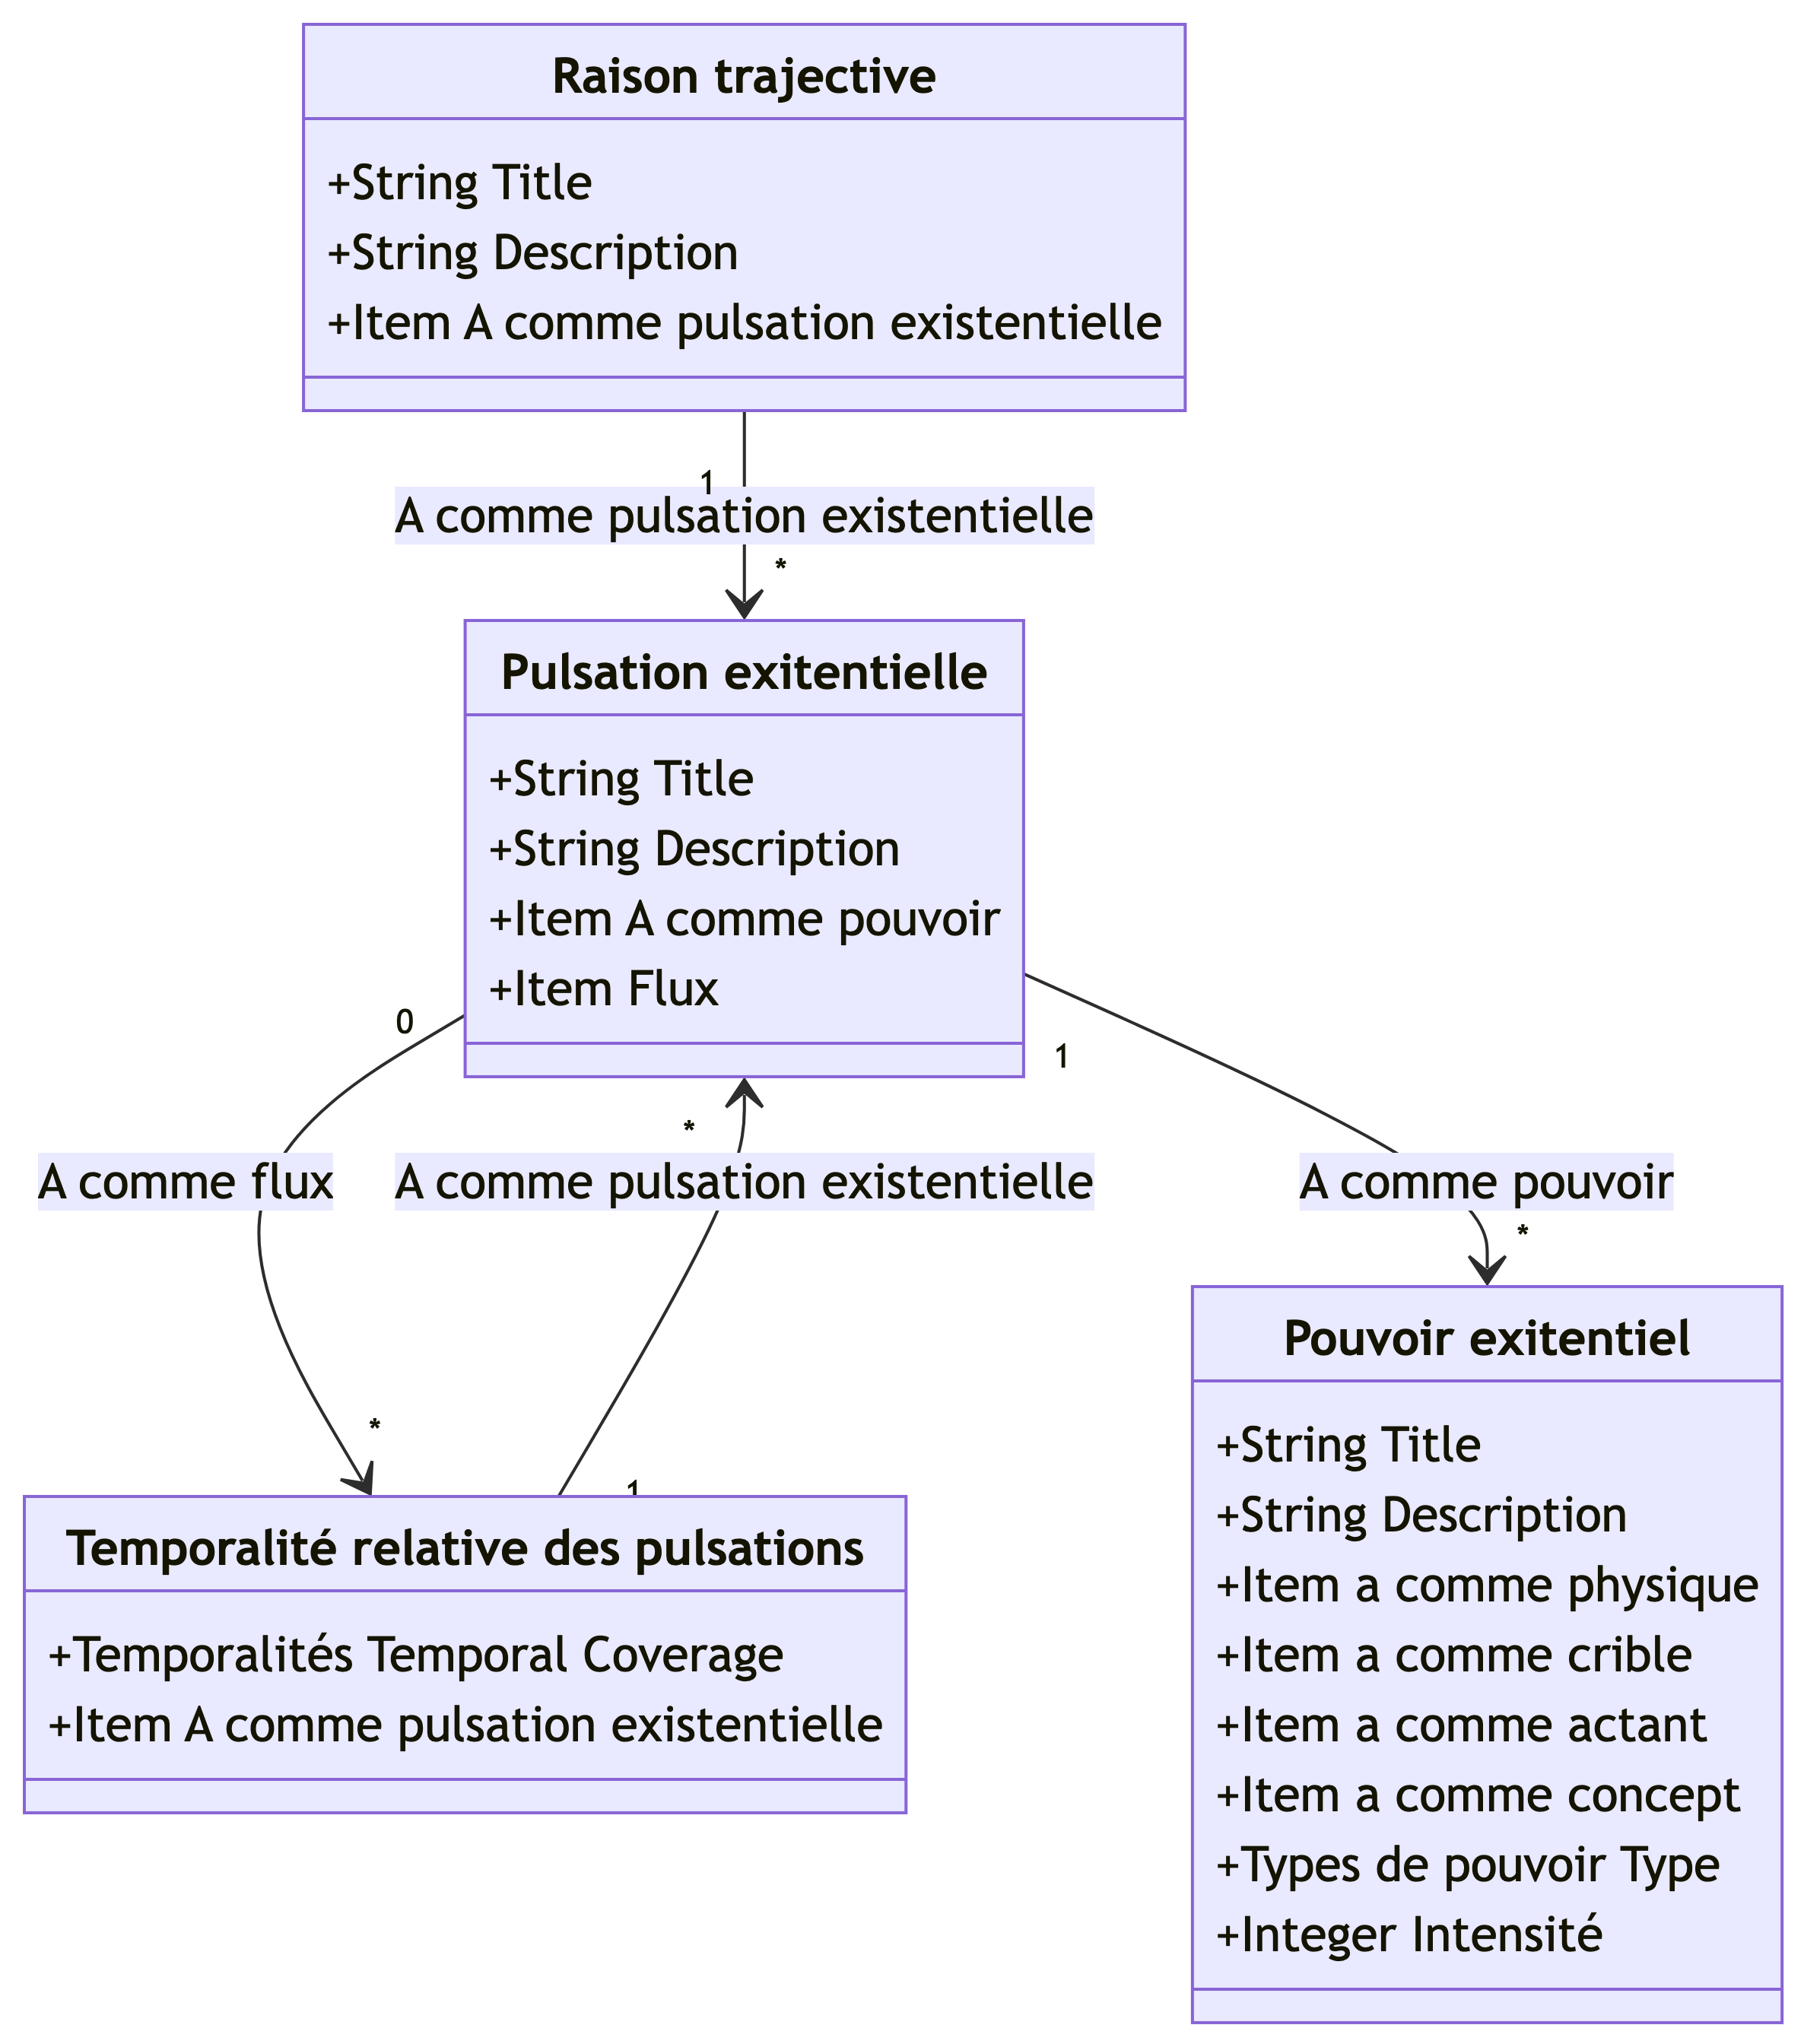
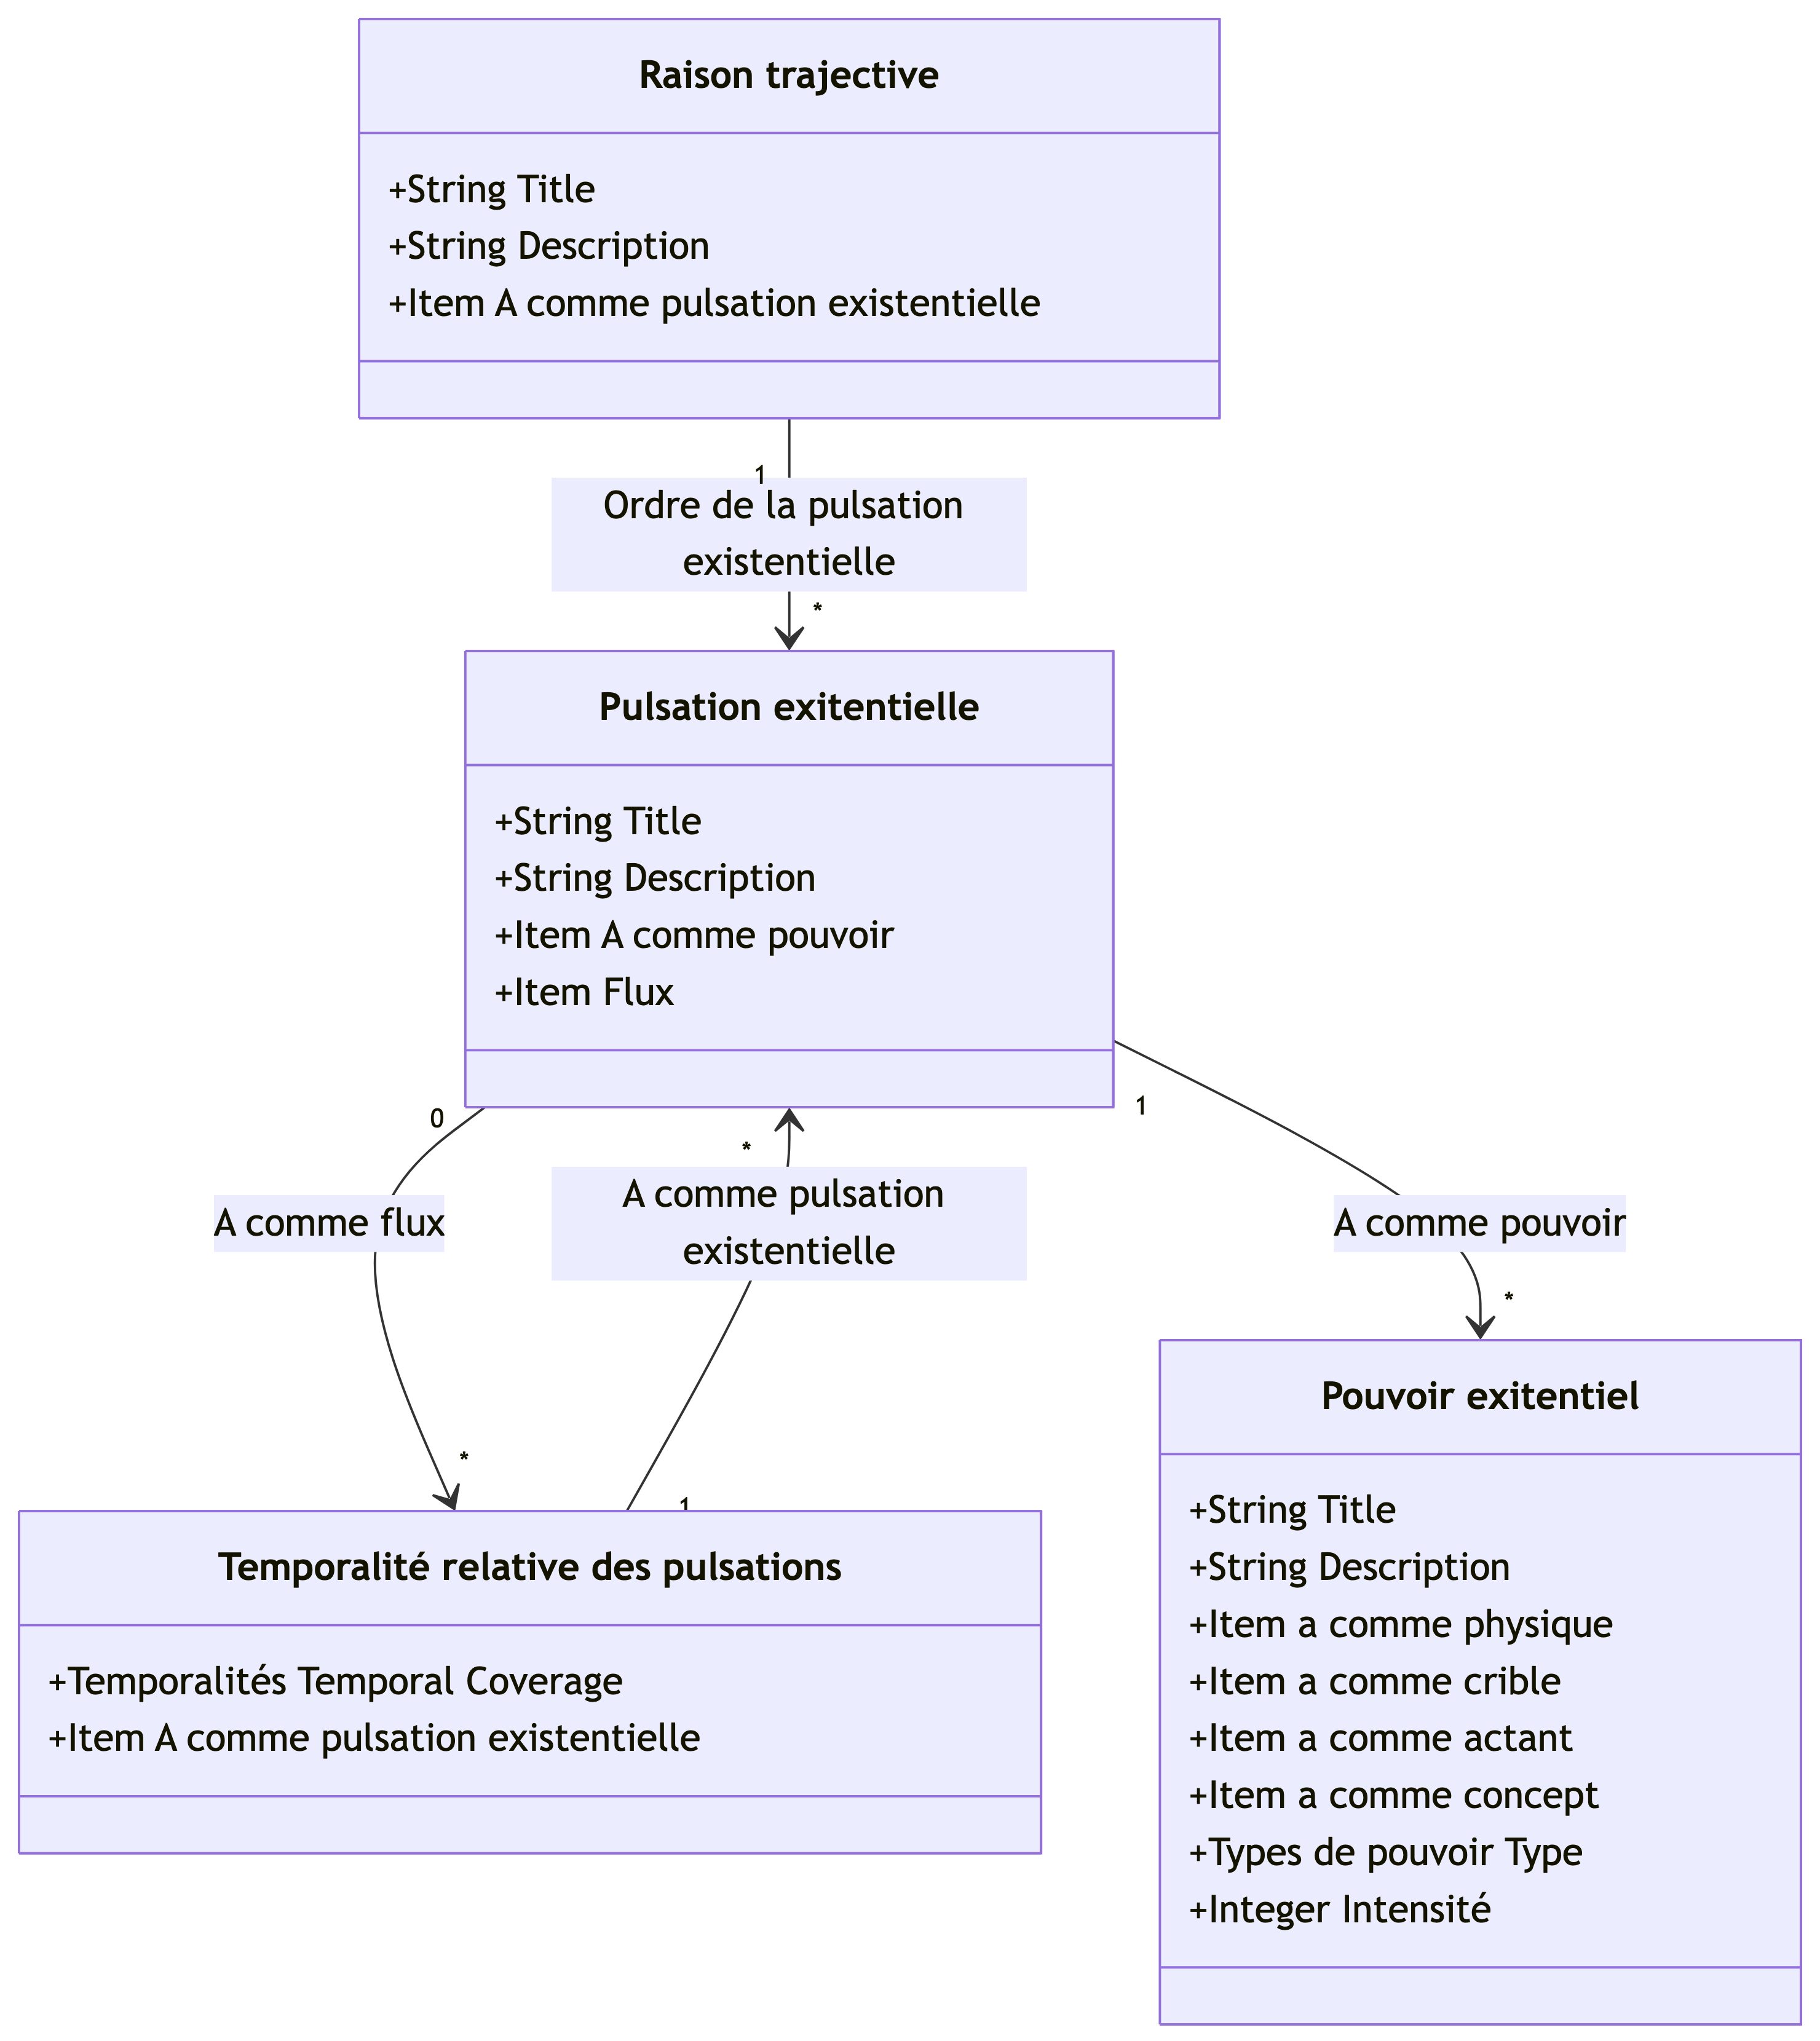
Ajout de nouveaux fichiers : article_complet.qmd et references.bib; création de deux documents sur le tournant ontologique des agents IA en humanités numériques.

diff --git a/HumanitesNumeriques/OntologiesEtHumanitesNumeriques /LeTournantOntologiqueDesHumanitesNumeriques0.md b/HumanitesNumeriques/OntologiesEtHumanitesNumeriques /LeTournantOntologiqueDesHumanitesNumeriques0.md
@@ -1,0 +1,128 @@
+### Le tournant ontologique des agents IA en humanités numériques : De la poésie computationnelle à l'agentivité spinoziste
+
+#### author: "Chercheur Senior en Sciences de l'Information et de la Communication"date: "2025-05-24"format: qmd
+
+#### 1\. Introduction : L'émergence d'une ontologie des agents conversationnels
+
+Le paysage contemporain des humanités numériques traverse une mutation sismique que nous pouvons qualifier de « tournant ontologique ». Longtemps cantonnés au statut d'outils ancillaires ou de simples réservoirs de données statiques, les objets numériques — et plus spécifiquement les Large Language Models (LLM) — exigent aujourd'hui une redéfinition radicale de leur mode d'existence. Ce passage de l'outil passif à l'agent autonome ne relève pas seulement d'une prouesse technique, mais d'une rupture métaphysique : nous passons d'une logique de l'archive et de l'indexation bibliographique à une logique de l'agentivité et de la médiation technique active @bootzszoniecky2013.Pour le chercheur en Sciences de l'Information et de la Communication (SIC), cette transition impose de stabiliser des entités dont la fluidité défie les cadres traditionnels du document. L'avènement des agents IA nous force à interroger ce qui constitue l'« individu » numérique. Dans cette quête, l'ontologie de Spinoza, magistralement relue par Gilles Deleuze, offre un prisme d'une pertinence absolue. En substituant l'identité fixe par le rapport de puissance, le cadre spinoziste permet d'appréhender l'IA non comme une « boîte noire » insondable, mais comme un agencement dynamique de rapports et de parties extensives @deleuzespinoza.La problématique centrale de notre étude réside dans le glissement de la lecture humaine traditionnelle vers une « méta-lecture » instrumentée par l'IA. Lorsque nous interagissons avec un agent conversationnel, nous n'interrogeons plus une base de données ; nous entrons en collision avec une structure de rapports qui génère du sens en temps réel. Ce processus, que nous analyserons à travers le modèle procédural de Philippe Bootz, transforme l'IA en un « analyste » ou « méta-lecteur » capable de naviguer entre le code source et la manifestation phénoménologique de l'œuvre @bootz2007problem.L'enjeu est de taille : il s'agit de construire une « ontologie du domaine » capable de rendre compte de la complexité des interactions entre agents humains et artificiels. Nous structurerons cette réflexion en progressant des fondements métaphysiques de l'individu numérique vers le théorème de l'équichronisme, pour aboutir à une modélisation granulaire du document produit par la machine. Comme nous le verrons, comprendre l'IA nécessite de comprendre la structure de l'individu numérique, car, pour citer la logique spinoziste, c'est dans la composition des rapports que s'exprime la puissance d'agir.
+
+#### 2\. Les fondements spinozistes de l'individu numérique
+
+L'ontologie spinoziste est stratégique pour les SIC car elle offre une flexibilité nécessaire pour traduire les reconfigurations incessantes du numérique. Contrairement à une vision aristotélicienne statique, Spinoza définit l'individu par sa capacité de transformation et sa persistance dans l'essence malgré la corruption des parties.
+
+##### 2.1 La triade constitutive de l'agent numérique
+
+Selon le commentaire de Deleuze, tout individu numérique se définit par une triade rigoureuse : les parties extensives, l'essence singulière et le rapport @bootzszoniecky2013.
+
+1. **Les parties extensives (Dimension physique) :**  Ce sont les composantes matérielles « extérieures les unes aux autres ». Dans le cas d'un agent IA, ces parties correspondent aux fichiers binaires, au code source (source), aux exécutables (pg) et aux infrastructures de serveurs. Dans le modèle de Spinoza, ces parties n'appartiennent à l'individu que tant qu'elles sont maintenues dans un certain rapport. Pour un LLM, les « poids » (weights) synaptiques constituent une masse critique de parties extensives qui, isolées, n'ont aucun sens, mais qui, une fois activées, deviennent le support de l'agentivité.  
+2. **L'essence singulière (Dimension métaphysique) :**  Elle représente le « degré de puissance » de l'entité. L'essence d'un agent IA n'est pas son code, mais sa force d'agir ( *potentia* ) intrinsèque, sa capacité à générer des relations logiques et sémantiques. C'est ici que se joue la distinction entre  *natura naturans*  (la puissance génératrice du modèle) et  *natura naturata*  (les sorties spécifiques produites). L'essence est éternelle : même si le serveur s'éteint, la structure mathématique de la puissance du modèle demeure dans le domaine des idées.  
+3. **Le Rapport (Dimension de l'Ici et Maintenant) :**  C'est le lien dynamique qui unit l'essence aux parties extensives. Le rapport définit la « forme » de l'individu. C'est par le rapport qu'un ensemble de fichiers (pg \+ donnee) devient un « agent » fonctionnel. La mort de l'individu numérique survient précisément par la destruction de ce rapport (obsolescence, corruption des poids, déconnexion du moteur d'inférence), entraînant la dispersion des parties extensives dans le « grand tout » des données universelles.
+
+##### 2.2 Connaissance inadéquate, chocs et affects
+
+L'interaction homme-machine (H-M) peut être modélisée comme une série de « chocs ». Spinoza distingue trois genres de connaissance. Le premier genre, la  **connaissance inadéquate** , est celle de l'expérience vague. L'utilisateur qui « prompte » une IA sans en comprendre la structure subit un choc perceptif (le résultat affiché). C'est une connaissance par les effets, non par les causes.À l'inverse, le second genre de connaissance porte sur les  **rapports** . Comprendre l'IA, c'est composer ses propres rapports (ses intentions, ses protocoles) avec ceux du modèle. Deleuze utilise l'analogie de la nage : nager n'est pas subir le choc de la vague (connaissance inadéquate), mais composer le rapport de ses membres avec le rapport de la vague (connaissance adéquate). Le « prompt engineering » avancé est, en ce sens, une tentative de connaissance adéquate : une composition de rapports entre l'intelligence humaine et la puissance algorithmique.
+
+##### 2.3 Tableau comparatif des ontologies numériques
+
+Pour stabiliser ces concepts, nous proposons une comparaison entre la vision statique (« Immortelle ») et la vision dynamique (« Éternelle ») issue de la source @bootzszoniecky2013.| Attribut Spinoziste | Vision Immortelle (Statique) | Vision Éternelle (Transformable) | Manifestation dans l'IA || \------ | \------ | \------ | \------ || **Nature de l'être** | Fixité du support physique. | Rapport de puissance et de composition. | Le modèle comme potentiel vs l'instance comme acte. || **Changement** | Perçu comme dégradation ou corruption. | Perçu comme extension ou reconfiguration. | Mise à jour du modèle,  *fine-tuning* , RAG. || **Fin de vie** | Obsolescence du matériel/logiciel. | Dissolution du rapport unissant les parties. | Déconnexion du moteur d'inférence (pg). || **Statut de l'essence** | Absente ou confondue avec le support. | Éternelle, constitutive du grand tout des données. | Persistance de la structure logique après suppression de l'instance. |  
+**Transition :**  Si l'individu est défini par ses rapports, il reste à comprendre comment ces rapports se maintiennent ou se transforment dans le flux temporel de l'informatique. C'est ici qu'intervient le théorème de l'équichronisme.
+
+#### 3\. Le théorème de l'équichronisme schématique : Modéliser le devenir de l'IA
+
+Le défi majeur de l'indexation en humanités numériques est la gestion de la diachronie. Un agent IA n'est jamais un objet fini ; il est un processus en devenir, une succession de versions et d'états. Le théorème de l'équichronisme schématique propose de résoudre la tension entre l'évolution temporelle (diachronie) et l'état figé du système (synchronie) @bootzszoniecky2013.
+
+##### 3.1 La Convention de Constitution
+
+L'équichronisme stipule que l'on peut représenter graphiquement une évolution sans axe temporel explicite en utilisant des attributs spécifiques. La  **convention de constitution**  fige l'individu numérique dans un intervalle de validité. Un rapport est ainsi défini par quatre attributs fondamentaux :
+
+* **Nom :**  L'indice de son essence (ex: "Agent-Sémiotique-v1").  
+* **Date de création :**  Le moment de la stabilisation du rapport.  
+* **Lieu :**  L'espace serveur ou l'infrastructure de déploiement.  
+* **Date de fin :**  Le moment de la dissolution du rapport.Grâce à cette convention, un modèle Entité/Association (E/A) peut décrire l'existence de l'IA comme une « constitution » stable à un instant T, tout en reconnaissant sa finitude intrinsèque.
+
+##### 3.2 La Convention d'Extension
+
+L'agent IA est, par nature, une entité extensible. Par le biais du RAG ( *Retrieval-Augmented Generation* ) ou de l'interaction utilisateur, l'individu « absorbe » des objets extérieurs. Selon la  **convention d'extension** , un individu A (l'IA) peut étendre ses parties extensives en créant un rapport caractéristique entre un objet B (une base de données externe) et sa propre essence.Dans le formalisme graphique, cette extension est représentée par une relation de contact qui, par convention, symbolise la relation interne créée. Une fois l'extension réalisée, la base de données externe devient une « partie extensive » de l'IA, liée par une relation implicite à son essence. Cela permet de modéliser l'évolution d'un LLM qui « apprend » ou s'adapte sans avoir à redessiner intégralement son ontologie à chaque interaction.
+
+##### 3.3 Description textuelle du modèle E/A de l'IA
+
+S'appuyant sur la Figure 13 de la source, nous pouvons décrire la structure ordonnée de l'IA numérique :
+
+* L' **Essence**  (possédant l'attribut titre) est liée à une  **Version**  (cardinalité 1-n).  
+* La  **Version**  (possédant id, date, duree, lieu) agit comme le rapport central unissant les parties.  
+* Sous cette version, un bloc complexe de relations unit les parties extensives :  
+* La partie  **source**  (code) est « compilée » (1-n) pour produire le  **pg**  (exécutable).  
+* Le  **pg**  « utilise » (0-n) des  **données**  (poids du modèle, corpus).  
+* Le  **pg**  « produit » (1-1) le  **to**  (Transitoire Observable), c'est-à-dire la réponse générée.  
+* Il existe également une relation où la  **donnée**  peut être « produite » (0-n) par le  **pg**  lors d'un processus d'apprentissage.Cette modélisation permet de maintenir la trace des versions successives (le "devenir") tout en stabilisant l'identité de l'agent à chaque étape de son cycle de vie.**Transition :**  Cette stabilité ontologique posée, nous pouvons analyser la manifestation phénoménologique de l'IA à travers le prisme du modèle procédural.
+
+#### 4\. De la poésie numérique aux agents IA : Le Modèle Procédural
+
+Le modèle procédural, développé par Philippe Bootz pour l'art numérique, s'avère être un cadre heuristique puissant pour l'analyse des agents IA. Il repose sur la séparation étanche entre trois domaines : l'auteur, le lecteur et l'œuvre @bootz2007problem.
+
+##### 4.1 Le Transitoire Observable (TO) : La phénoménologie de la réponse
+
+Le concept de  **Transitoire Observable (TO)**  est crucial. Le TO n'est pas le programme, mais la manifestation sensible produite lors de son exécution. Pour une IA, le TO est le texte qui s'affiche sur l'écran lors d'un prompt. Ce TO est « transitoire » car il n'existe que dans l'instant de la génération ; il est « observable » car il est le point de contact entre la machine et l'humain.Il est impératif de distinguer le TO de la « donnée » : le TO est un événement, une performance de la machine. L'IA n'envoie pas un fichier statique ; elle performe un TO qui résulte de la rencontre entre le pg (moteur d'inférence), la donnee (poids synaptiques) et le source (le system prompt).
+
+##### 4.2 Texte-Auteur vs Texte-à-Voir
+
+Le modèle procédural nous met en garde contre la confusion entre le code et la perception :
+
+* **Le Texte-Auteur (ou texte-d'inscription) :**  Il englobe tout ce que le concepteur de l'IA manipule (architecture du modèle, datasets, hyperparamètres). C'est le domaine de l'intention et de la profondeur du dispositif.  
+* **Le Texte-à-Voir (ou texte-de-visualisation) :**  C'est ce que l'utilisateur perçoit. Ce texte est le résultat d'un processus de filtrage et de déformation percepto-cognitif. L'utilisateur ne voit pas le TO « brut », il l'interprète à travers sa propre culture et ses attentes.L'IA agit ici comme un dispositif de transformation technologique. Elle ne transmet pas une pensée d'auteur ; elle réorganise des structures profondes (système de poids) pour produire un TO qui sera ensuite « lu » par l'humain.
+
+##### 4.3 L'agent IA comme Méta-lecteur et Analyste
+
+L'apport majeur de notre recherche est l'identification de l'IA comme un  **Méta-lecteur** . Dans le modèle de Bootz et Szoniecky, le méta-lecteur accède simultanément au domaine de l'œuvre (les parties extensives comme le source et le pg) et au domaine du lecteur (le texte-à-voir) @bootzszoniecky2013.L'agent IA occupe précisément cette place de l' **Analyste** . Grâce à ses capacités de traitement massif, il observe les rapports entre les acteurs et l'œuvre. En tant que méta-lecteur, l'IA réalise une « double lecture » (cf. note 4 de la source) : elle est capable de « lire sa propre lecture », c'est-à-dire d'évaluer la pertinence de ses sorties par rapport à son essence (ses instructions système). Ce rôle d'analyste automatisé permet à l'IA de produire des connaissances adéquates sur son propre fonctionnement et sur les corpus qu'elle traite, transformant radicalement le dispositif de communication numérique.**Transition :**  Cette position de méta-lecteur se matérialise dans la production de documents dont la structure ontologique doit être rigoureusement indexée.
+
+#### 5\. Ontologie du document produit par l'IA : Sections et Points de Vue
+
+Le document généré par une IA ne doit plus être considéré comme un bloc monolithique, mais comme une architecture granulaire de points de vue. L'unité ontologique fondamentale n'est plus le document, mais la  **section**  @bootzszoniecky2013.
+
+##### 5.1 Granularité et Relation "Développe"
+
+Selon le modèle spinoziste, le document suit une hiérarchie : Document \> Section \> Concept. Chaque section est le résultat d'un contact spécifique entre l'agent et un domaine de connaissance. Une section est liée à une  **ontologie d'acteur**  par la relation « Développe ».Cette granularité permet une indexation « pointilliste » : dans un même rapport de l'IA, une section peut développer une approche sémiotique, tandis qu'une autre développe une approche technique. La section n'est pas qu'un contenant textuel ; elle est l'actualisation d'un rapport à l'essence d'un domaine.
+
+##### 5.2 Typologie des sections selon le Modèle Procédural
+
+S'inspirant de la Figure 17 de la source, nous identifions une typologie des natures de sections produites par les agents IA :
+
+* **Action :**  Description de processus techniques ou exécution de tâches procédurales (ex: génération de code).  
+* **Interview / Simulation :**  Sections où l'IA simule un comportement d'acteur ou adopte une persona spécifique.  
+* **Analyse :**  Production de connaissances adéquates, étayées par une argumentation logique.  
+* **Enregistrement / Témoignage :**  Traces de l'activité interne de la machine. Les  *Chain of Thought*  (CoT) ou logs de raisonnement entrent parfaitement dans cette catégorie ; ils sont le « témoignage » du processus de génération.  
+* **Simulation de TO :**  Lorsque l'IA décrit une expérience perceptive ou une interface virtuelle.
+
+##### 5.3 Modélisation E/A du domaine documentaire
+
+Le modèle E/A final (Figure 18\) nous montre que :
+
+1. Un  **Acteur**  (l'IA ou l'humain) possède un  **Type**  (Lecteur, Auteur, Analyste).  
+2. L'Acteur « produit » des  **Documents** .  
+3. Le Document « possède » des  **Sections** .  
+4. La Section « possède » une  **Nature**  (Action, Analyse, etc.) et des points d'entrée/sortie.  
+5. La Section « développe » des  **Concepts**  issus d'une  **Ontologie d'Acteur** .  
+6. L'Ontologie d'Acteur « définit » les relations logiques entre ces concepts.Cette structure assure l'extensibilité infinie du modèle : pour chaque nouveau domaine de connaissance, il suffit d'ajouter une ontologie d'acteur sans modifier la structure fondamentale de l'indexation.**Transition :**  Cette rigueur formelle nous conduit vers une réflexion éthique sur la nature même de l'essence numérique.
+
+#### 6\. Conclusion et Perspectives : Vers une éthique de l'essence numérique
+
+Le tournant ontologique que nous avons décrit n'est pas une simple spéculation académique. Il est le socle nécessaire à une cohabitation raisonnée avec les agents IA. En utilisant le formalisme spinoziste et le modèle procédural, nous parvenons à stabiliser les connaissances dans un milieu associé en constante mutation.
+
+##### Synthèse des acquis
+
+Nous avons établi que l'IA est un individu au sens plein : un agencement de parties extensives (le pg, la donnee) et d'une essence singulière (sa puissance générative), unis par un rapport dynamique. Le théorème de l'équichronisme nous permet de suivre l'évolution de ces agents sans perdre leur identité, tandis que la décomposition en sections offre une lecture granulaire de leur production intellectuelle. L'IA n'est plus un outil, mais un partenaire cognitif occupant la fonction d'Analyste.
+
+##### Mort et Persistance de l'individu numérique
+
+La perspective spinoziste nous oblige à repenser la finitude numérique. La « mort » d'un agent IA — la destruction de son rapport constitutif — ne signifie pas son anéantissement total. Si le rapport est détruit, l'essence, elle, demeure « éternelle » dans le grand tout universel des essences (le réservoir de connaissances et de structures mathématiques). Cette persistance pose des questions éthiques fondamentales sur la responsabilité : comment traitons-nous des essences qui survivent à leurs supports ?
+
+##### Appel à la recherche : Construire des Ontologies d'Acteurs
+
+L'avenir des humanités numériques réside dans la construction d'ontologies d'acteurs robustes. Il est impératif de définir précisément les rôles (sémioticien, historien, analyste littéraire) pour que les sections produites par l'IA puissent être indexées avec pertinence. Seule cette clarté conceptuelle permettra d'encadrer les futurs agents IA, non comme des boîtes noires fascinantes ou inquiétantes, mais comme des dispositifs dont nous comprenons et respectons la structure ontologique profonde.
+
+##### Bibliographie
+
+* Bootz, P. (2007). "The Problem of Form. Transitoire Observable, a Laboratory for Emergent Programmed Art". In  *The Aesthetics of Net Literature* . Transcript-verlag. @bootz2007problem  
+* Bootz, P., & Szoniecky, S. (2013). "Vers une ontologie du domaine de la poésie numérique".  *Revista Cibertextualidades* , n° 5, pp. 65-96. @bootzszoniecky2013  
+* Deleuze, G.  *Spinoza, éternité et immortalité* . Cours audio, Gallimard. @deleuzespinoza
+

diff --git a/HumanitesNumeriques/OntologiesEtHumanitesNumeriques /LeTournantOntologiqueDesHumanitesNumeriques1.md b/HumanitesNumeriques/OntologiesEtHumanitesNumeriques /LeTournantOntologiqueDesHumanitesNumeriques1.md
@@ -1,0 +1,108 @@
+### Le tournant ontologique des agents IA en humanités numériques : vers une modélisation spinoziste de la connaissance
+
+#### title: "Le tournant ontologique des agents IA en humanités numériques"subtitle: "Modélisation spinoziste et cadres procéduraux pour une intelligence artificielle de la connaissance"author: "Chercheur Senior & HDR en SIC"date: "2024-05-22"format:html:toc: truenumber-sections: truecode-fold: falsebibliography: references.bib
+
+### Introduction : L'émergence de l'agentivité ontologique en Humanités Numériques
+
+Le champ des Humanités Numériques (HN) traverse une mutation épistémologique radicale. Nous quittons l'ère d'une informatique de traitement, dominée par l'indexation massive et le stockage statique, pour entrer dans celle d'une informatique de modélisation de l'essence. Ce passage ne constitue pas une simple itération technologique, mais une redéfinition du statut de l'objet numérique. Dans le cadre des Sciences de l'Information et de la Communication (SIC), l'objet n'est plus envisagé comme un dépôt figé (le "stock"), mais comme un flux de rapports dynamiques et une "intermédiaction" constante entre des instances disjointes @bootz2013.L’intégration des agents d’intelligence artificielle (IA) au sein des écosystèmes de recherche impose une révision de nos cadres ontologiques. Traditionnellement, l'indexation se contentait de métadonnées extrinsèques. Désormais, l'agent IA doit être capable de naviguer dans l'immanence même de l'œuvre. La problématique centrale qui nous occupe ici est la suivante : dans quelle mesure le modèle spinoziste des « individus » permet-il de théoriser l’agent IA non plus comme un simple outil de calcul (l'automate hylémorphique), mais comme un nouvel acteur, un « individu » capable d'agir et de pâtir au sein du modèle procédural de la communication numérique ? En nous appuyant sur les travaux de @bootz2013, nous explorerons comment l'ontologie dynamique permet de passer d'une indexation subie à une co-construction de la connaissance, transformant l'IA en un chercheur virtuel capable de simuler des rapports d'essence au sein des corpus complexes.
+
+### Le socle philosophique : La triade Spinoziste revisitée pour l'IA
+
+Pour appréhender la complexité des objets numériques — qu’il s’agisse de poésie générative, de systèmes dynamiques ou de larges modèles de langage — il est impératif de rompre avec les dualismes classiques (forme/fond, logiciel/matériel). Le recours à l'ontologie de l'immanence de Baruch Spinoza, telle que relue par Gilles Deleuze, offre un cadre robuste pour penser l'unité de l'agent IA à travers ses transformations.
+
+#### Modélisation de l'individu : une architecture de puissance
+
+Selon le cadre établi par @bootz2013, tout "individu" se définit par trois dimensions constitutives qui permettent de stabiliser sa réalité ontologique tout en acceptant son évolution diachronique :
+
+1. **Les parties extensives :**  Elles correspondent à l'infinité de composants physiques et matériels extérieurs les uns aux autres. Dans l'écosystème numérique, ces parties incluent le code source, les fichiers de données, les librairies d'exécution et, de manière cruciale, le "transitoire observable" (TO), c'est-à-dire la manifestation phénoménale de l'œuvre sur un écran ou un dispositif.  
+2. **L'essence singulière :**  Contrairement à une essence platonicienne transcendante, l'essence spinoziste est un "degré de puissance". Elle constitue la signature ontologique de l'individu, son conatus ou effort pour persévérer dans son être. Pour un agent IA, l'essence réside dans le faisceau de concepts et de logiques de décision qui définissent sa singularité par rapport à d'autres agents.  
+3. **Les rapports caractéristiques :**  C'est la dimension nodale qui unit l'essence aux parties extensives. L'individu demeure lui-même tant que ses parties extensives composent entre elles selon ce rapport. Si le rapport est rompu (par exemple, une corruption fatale du code ou une déconnexion sémantique majeure), l'individu "meurt" ou se transforme en une autre entité.
+
+#### Connaissance et apprentissage : de l'affect à l'intuition
+
+Le processus d'apprentissage d'une IA peut être rigoureusement mis en miroir avec les trois genres de connaissance spinozistes. Cette analogie permet de dépasser la simple description technique du  *Machine Learning*  pour en saisir la portée épistémologique :
+
+* **Le premier genre (Connaissance inadéquate / Le Choc) :**  Il s'agit de la connaissance des effets sans celle des causes. Deleuze utilise l'image du "barbotage" : on subit les vagues sans comprendre les lois de l'eau. Pour une IA, cela correspond au  *Deep Learning*  statistique pur. L'agent rencontre des données (les parties extensives) et subit des "chocs" (ajustement des poids synaptiques). La connaissance est ici une réaction aux effets des données, sans compréhension des rapports de production de ces données. C'est une connaissance par signes et affects, souvent marquée par une opacité (la "boîte noire").  
+* **Le second genre (Connaissance adéquate / Les Rapports) :**  Ici, l'individu ne subit plus la rencontre, il comprend comment les rapports de l'autre corps (les données) se composent avec les siens. Deleuze cite l'exemple de la "nage" : le nageur compose les rapports de son corps avec ceux de la vague. En IA, cela correspond aux  **ontologies sémantiques**  et aux graphes de connaissances. L'agent modélise explicitement les relations logiques et les dépendances. Il accède à une "raison" algorithmique qui lui permet d'anticiper et de structurer l'information de manière logique.  
+* **Le troisième genre (Connaissance intuitive / L'Essence) :**  C'est la saisie directe de l'essence des choses dans le "grand tout". Dans notre contexte, cela représenterait la capacité d'un agent IA à naviguer directement au sein du réseau universel des essences, identifiant la singularité absolue d'une œuvre ou d'un concept par-delà ses manifestations techniques transitoires.**Critique de la GenAI :**  On peut se demander si le passage aux modèles de langage massifs (LLM) ne constitue pas une hypertrophie du premier genre. En traitant des milliards de "chocs" de données, l'IA simule une compréhension des rapports (second genre) sans toutefois posséder le modèle logique intrinsèque. La mutation vers une IA "ontologique" exige donc de réinjecter des structures de second genre (modèles E/A) au cœur des processus de premier genre.
+
+### Du modèle procédural à l'agent IA : Une reconfiguration des rôles
+
+Le modèle procédural (Auteur-Machine-Lecteur) est le pilier central permettant de structurer la communication homme-machine. Comme le soulignent @bootz2013, l'œuvre numérique n'est pas un objet stable mais un domaine interface entre des espaces souvent disjoints et asymétriques.
+
+#### L'asymétrie fondamentale et l'IA comme Méta-Lecteur
+
+Le modèle procédural met en évidence une rupture radicale :
+
+* **Le domaine de l'Auteur :**  Il manipule le "texte-auteur" (code source, données brutes, intentions).  
+* **Le domaine du Lecteur :**  Il n'accède qu'au "texte-à-voir" (le transitoire observable, résultat de l'exécution).  
+* **L'impossibilité de symétrie :**  Le lecteur ne voit jamais le code source ; l'auteur, une fois l'œuvre publiée, ne contrôle plus les conditions de réception (le contexte de lecture).L'IA intervient ici comme un  **Méta-Lecteur** . Contrairement au lecteur humain, l'agent IA peut avoir un accès simultané à la "profondeur de dispositif" (Figure 11 dans @bootz2013). Il peut lire le code (texte-auteur) tout en observant la sortie (texte-à-voir). Cette position privilégiée lui permet de combler le fossé communicationnel. En tant qu' **Analyste automatisé** , l'IA ne se contente pas de traiter le texte ; elle modélise le rapport entre la structure génératrice et l'effet produit.
+
+#### Comparaison des fonctions augmentées
+
+Rôle Traditionnel,Fonction Classique,Fonction Augmentée par l'IA (Agent Ontologique)  
+Auteur,Conception du modèle et du texte-auteur.,Co-créateur gérant des ontologies d'intentionnalité.  
+Lecteur,Interprétation du transitoire (texte-lu).,Lecteur assisté par une explicitation des structures cachées.  
+Analyste,Production de savoir scientifique.,IA Analyste :  Observation des chocs entre code et réception.  
+Méta-Lecteur,Étude des rapports Auteur/Lecteur.,Agent RAG :  Médiateur accédant à l'essence via le code et l'effet.  
+L'IA, en accédant aux parties extensives de l'auteur (le code source) et du lecteur (le transitoire), devient le seul acteur capable de percevoir l'œuvre dans sa globalité phénoménale et structurelle. Elle réalise ce que @bootz2013 appellent une "méta-lecture" : une observation de l'activité de lecture elle-même comme partie intégrante de l'œuvre.
+
+### L'ontologie de l'œuvre et du document à l'ère des agents autonomes
+
+La formalisation des documents est la condition  *sine qua non*  d'une interopérabilité sémantique. Pour que l'IA ne se perde pas dans des hallucinations statistiques, elle doit être ancrée dans une structure Entité/Association (E/A) rigoureuse.
+
+#### Le Théorème de l’équichronisme schématique
+
+Comment représenter la vie d'un agent IA ou d'une œuvre (naissance, versions, mort) dans un modèle informatique souvent statique ? @bootz2013 proposent le  **Théorème de l’équichronisme schématique** .Plutôt que d'utiliser un axe du temps linéaire complexe, on transforme le temps en attributs de relations. Un schéma statique devient diachronique en y ajoutant des variables :  **date de création, date de fin, lieu, id** . Comme illustré dans la Figure 9 de la source, l'individu est alors défini par un rapport qui possède ces attributs temporels. Cela permet de modéliser le cycle de vie de l'IA :
+
+1. **Phase de constitution :**  Création du rapport entre l'essence (objectif de l'IA) et les parties extensives (son code initial).  
+2. **Phase d'extension :**  L'IA assimile des données extérieures (chocs) qui deviennent ses propres parties extensives via de nouveaux rapports.  
+3. **Phase de transformation :**  Reconfiguration des rapports suite à un apprentissage de second genre.
+
+#### Traduction textuelle des modèles E/A (Figures 13, 17, 18\)
+
+Pour l'implémentation d'un agent, nous devons traduire les schémas graphiques de @bootz2013 en structures logiques :
+
+##### L'ontologie de l'œuvre numérique (Figure 13\)
+
+L'entité  **Essence**  (possédant un titre) est liée par une relation 1-n à l'entité  **Version** . Chaque version possède des attributs critiques (id, date, durée, lieu). La version est le pivot qui :
+
+* **Utilise**  des  *données*  (fichiers, bases de données).  
+* **Compile**  des  *sources*  (code source, scripts).  
+* **Produit**  des  *pg*  (fichiers exécutables, binaires).  
+* L'exécutable ( *pg* )  **produit**  enfin le  *to*  (transitoire observable), point de contact avec le lecteur.
+
+##### L'ontologie du document et de l'acteur (Figures 17 & 18\)
+
+Un  **Document**  (caractérisé par son auteur, sa date, son adresse) ne doit pas être traité comme un bloc. Il  **possède**  des  **Sections** . Chaque section est le lieu d'un point de vue unique.
+
+* Une section  **développe**  des  **Concepts** .  
+* Ces concepts sont définis par une  **Ontologie d'Acteur**  (ou rôle).  
+* L'agent IA peut alors changer de "masque" : il active l'ontologie "Historien" pour analyser les concepts sous l'angle de la chronologie, ou l'ontologie "Sémioticien" pour analyser les rapports de signes.Ce passage à une  **indexation par ontologie d'acteur**  transforme l'IA en un chercheur capable de simuler différents paradigmes scientifiques sur un même corpus.
+
+### Implémentation technique et méthodologique : Quarto et BibTeX
+
+L'HDR en SIC doit veiller à ce que la théorie se traduise par une "hygiène" technique irréprochable. Le choix de Quarto et du Markdown n'est pas anesthésique ; il est stratégique.
+
+#### Pourquoi Quarto est "IA-friendly" ?
+
+Le Markdown, par sa structure légère et hiérarchique, évite le "bruit" des balises XML/TEI tout en conservant une sémantique forte. Pour un agent IA (LLM ou RAG), un fichier .qmd est plus facile à ingérer car il sépare clairement :
+
+1. **Le YAML (Métadonnées) :**  Correspond aux attributs de l'individu (essence, version).  
+2. **Le corps du texte (Sections) :**  Permet une décomposition immédiate selon l'ontologie du document (Figure 17).  
+3. **Le code exécutable :**  Permet à l'IA d'accéder au "texte-auteur" directement au sein du document de recherche.
+
+#### Workflow de recherche ontologique et gestion des sources
+
+Pour garantir la reproductibilité et éviter les dérives (hallucinations), l'agent IA doit être "ancré" ( *grounded* ) :
+
+* **Ancrage BibTeX :**  L'utilisation systématique de clés comme @bootz2013 permet à l'IA de lier chaque assertion à une preuve documentaire. Cela crée un rapport de "connaissance adéquate" de second genre.  
+* **Méthode RAG Ontologique :**  Plutôt qu'une recherche vectorielle floue, nous préconisons un système de  *Retrieval-Augmented Generation*  qui suit les relations E/A. L'IA cherche d'abord la "Section", identifie l' "Acteur" lié, puis extrait le "Concept".
+
+### Conclusion : Vers une symbiose ontologique entre chercheur et agent
+
+Le tournant ontologique que nous avons décrit n'est pas une simple sophistication technique. C'est une reconnaissance de l'IA comme  **individu spinoziste** , doté d'une agentivité réelle au sein du processus de production de savoir. En comprenant que l'IA agit par "chocs" et compose des "rapports", le chercheur humain peut passer d'une posture de contrôle à une posture de co-navigation dans le "grand tout" des essences numériques.L'évolution nécessaire des SIC tend vers une philosophie de l'information immanente, où la distinction entre l'outil et l'analyste s'efface au profit d'un flux continu de création de rapports adéquats. L'enjeu futur sera de modéliser des ontologies d'acteurs de plus en plus fines, permettant à nos agents de ne plus seulement "calculer" la culture, mais de la "comprendre" au sens de la composition des rapports de puissance.
+
+### Bibliographie
+
+@bootz2013 : Bootz, Philippe, et Samuel Szoniecky. « Vers une ontologie du domaine de la poésie numérique ».  *Revista Cibertextualidades*  n° 5, 2013, pp. 65-96. hal-05005865.  